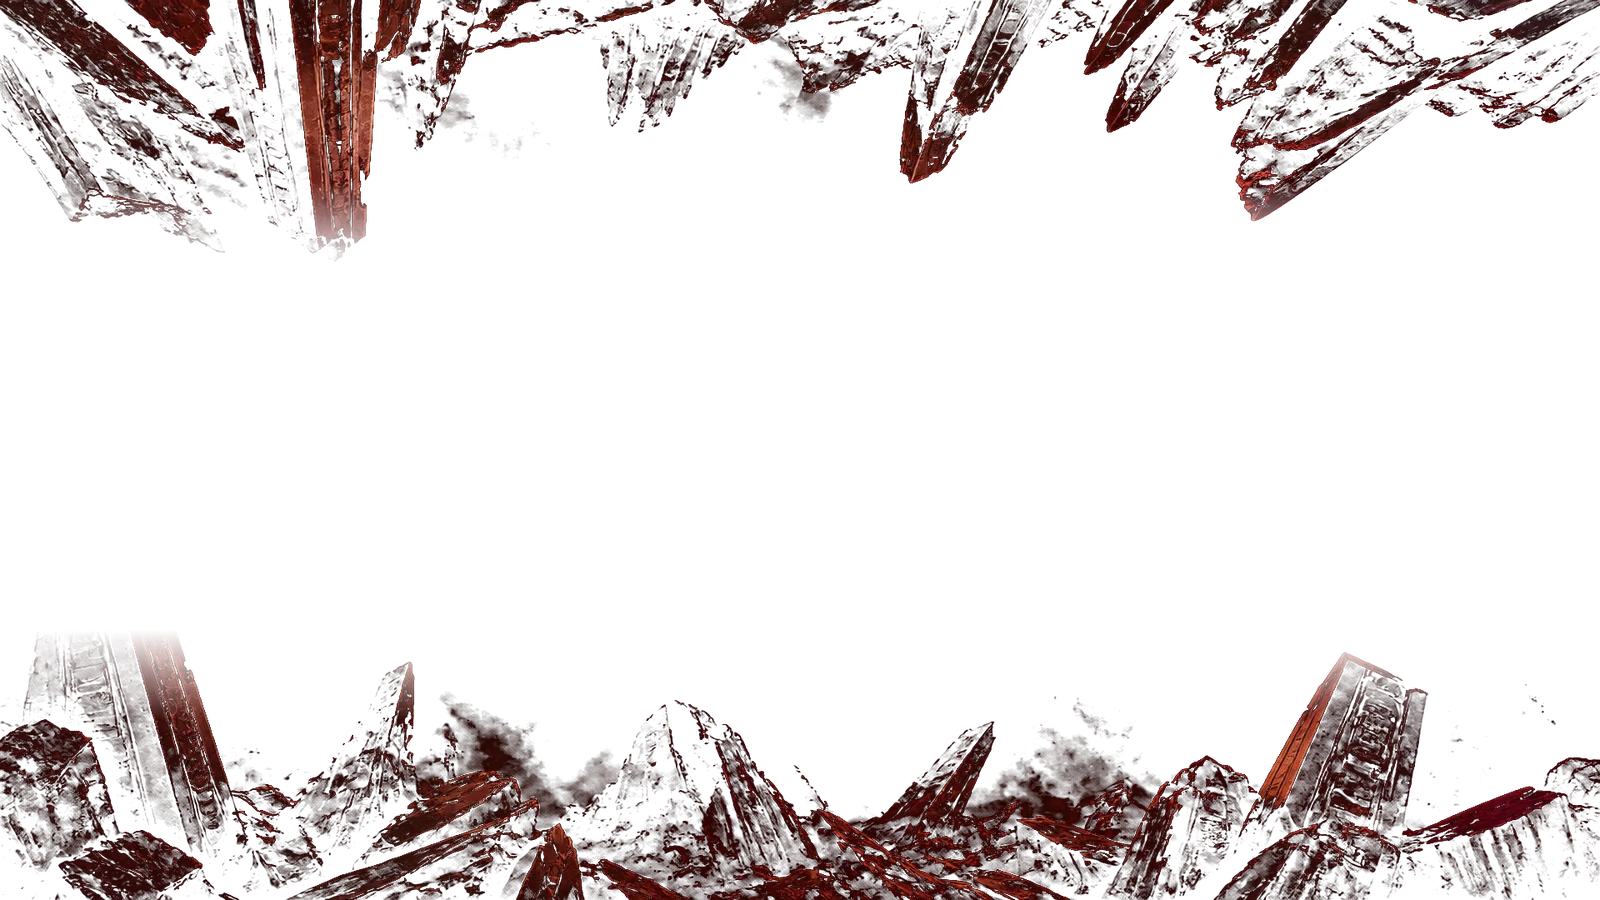
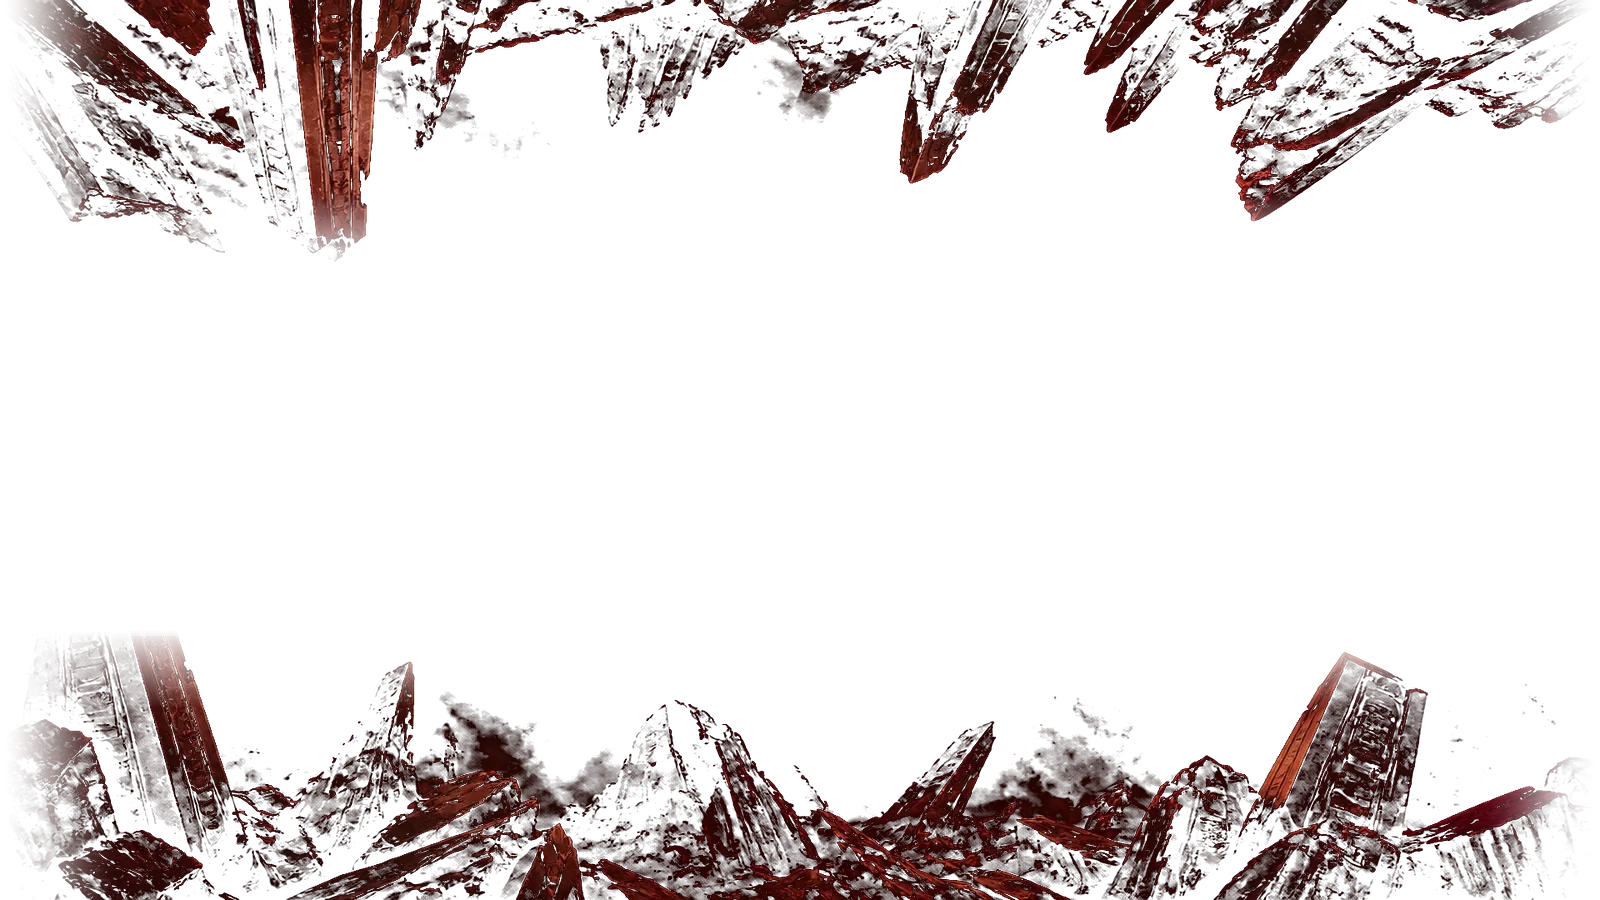
Soften parallax seams on building and ruin layers
Feather the left and right edges of mid and foreground plates, and
offset mirrored tiles so looping no longer reads as a hard Rorschach join.

diff --git a/game/js/gfx.js b/game/js/gfx.js
@@ -479,7 +479,7 @@ AR.Background = {
       ctx.save();
       ctx.translate(x + destW * 2, 0);
       ctx.scale(-1, 1);
-      ctx.drawImage(img, 0, y, destW + 0.5, destH);
+      ctx.drawImage(img, 0, y + 18, destW + 0.5, destH + 12);
       ctx.restore();
       x += period;
     }
